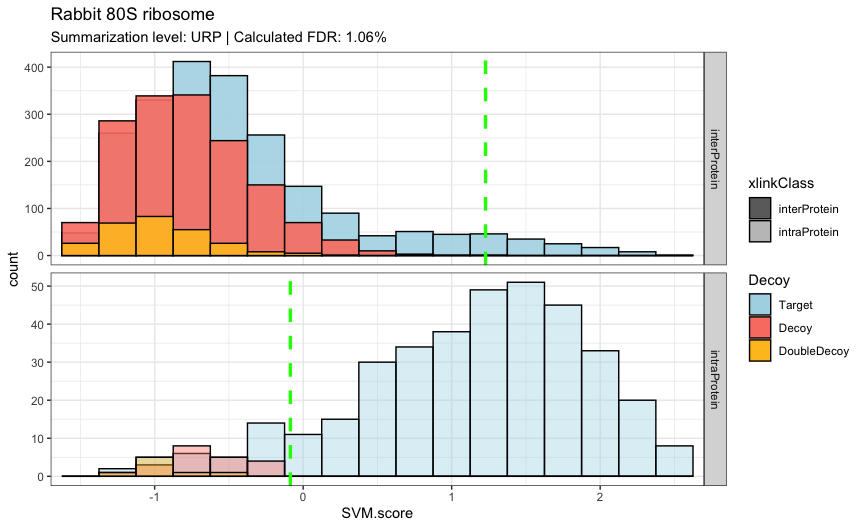
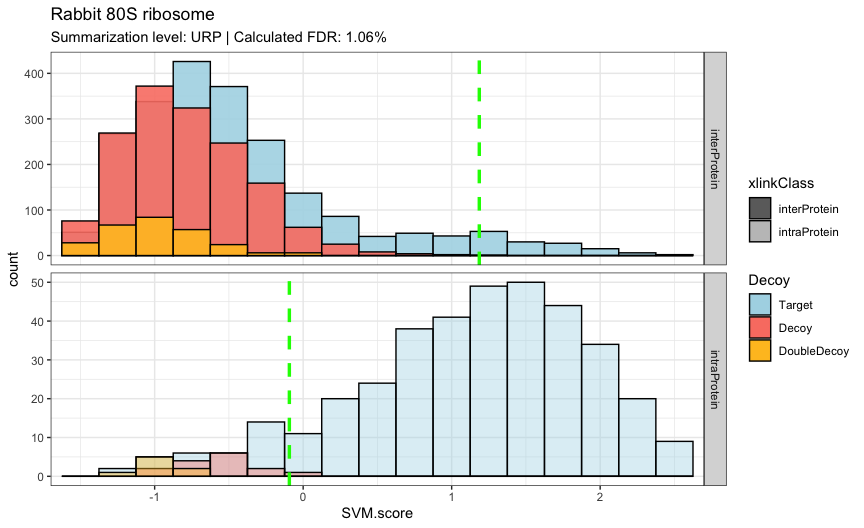
Validate Touchstone 0.1.0 release

diff --git a/README.md b/README.md
@@ -2,6 +2,7 @@ Touchstone
 ================
 
 <!-- README.md is generated from README.Rmd. Please edit README.Rmd. -->
+<!-- Release example validated with touchstone 0.1.0. -->
 
 ## Crosslinking mass-spectrometry rescoring and reporting
 
@@ -175,11 +176,11 @@ ribo_training
 #> Features: Score.Diff, percMatched, massError, z, CSMsupport, xlinkClass, Perc.Bond.Cleavage.1, Perc.Bond.Cleavage.2.
 #> Recommended scores average 3 cross-fitted estimates.
 #> Selected Score.Diff prefilter: 0.
-#> # A tibble: 1 x 17
+#> # A tibble: 1 × 17
 #>   index kernel  cost gamma interHits intraHits achievedFDR interCorrelation intraCorrelation
 #>   <int> <chr>  <dbl> <dbl>     <dbl>     <dbl>       <dbl>            <dbl>            <dbl>
-#> 1     1 linear 0.001    NA       124       374      0.0105            0.573            0.601
-#> # i 8 more variables: interTailCorrelation <dbl>, intraTailCorrelation <dbl>,
+#> 1     1 linear 0.001    NA       139       374      0.0107            0.564            0.574
+#> # ℹ 8 more variables: interTailCorrelation <dbl>, intraTailCorrelation <dbl>,
 #> #   worstClassCorrelation <dbl>, minimumCorrelationRequired <dbl>, selectionBasis <chr>,
 #> #   eligible <lgl>, recommended <lgl>, recommendedRadial <lgl>
 #> Full candidate audit: $candidates
@@ -224,10 +225,10 @@ ribo_urp <- prepareCrosslinkResults(
 
 ribo_urp$thresholds
 #> $intraThresh
-#> [1] -0.08606
+#> [1] -0.092936
 #>
 #> $interThresh
-#> [1] 1.228
+#> [1] 1.186
 #>
 #> attr(,"thresholdMethods")
 #>     intraProtein     interProtein
@@ -268,32 +269,32 @@ product-ion cleavage positions when those annotations are available:
 ribo_report <- classifyCrosslinkResults(ribo_urp)
 
 ribo_report$polishingAudit
-#> # A tibble: 2 x 7
+#> # A tibble: 2 × 7
 #>   rule      value                                   before after removed applied reason
 #>   <chr>     <chr>                                    <int> <int>   <int> <lgl>   <chr>
 #> 1 minIons   3                                        58987 32576   26411 TRUE    <NA>
-#> 2 threshold intraThresh=-0.19288, interThresh=1.204  32576  3371   29205 TRUE    <NA>
+#> 2 threshold intraThresh=-0.18368, interThresh=1.168  32576  3347   29229 TRUE    <NA>
 
 ribo_classification_summary <- countDecoys(ribo_report)
 
 ribo_classification_summary
-#> # A tibble: 2 x 5
+#> # A tibble: 2 × 5
 #> # Groups:   xlinkClass, Decoy [2]
 #>   xlinkClass   Decoy Target DoubleDecoy   FDR
 #>   <chr>        <int>  <int>       <dbl> <dbl>
-#> 1 interProtein     2    140          NA  1.43
-#> 2 intraProtein     3    370          NA  0.81
+#> 1 interProtein     1    140          NA  0.71
+#> 2 intraProtein     4    368          NA  1.09
 ribo_report$fdrByClass
-#> # A tibble: 2 x 2
-#>   xlinkClass      FDR
-#>   <chr>         <dbl>
-#> 1 interProtein 0.0121
-#> 2 intraProtein 0.0101
+#> # A tibble: 2 × 2
+#>   xlinkClass       FDR
+#>   <chr>          <dbl>
+#> 1 interProtein 0.0107
+#> 2 intraProtein 0.00995
 ```
 
 `countDecoys()` provides the target and scaling-adjusted decoy count
 summary. The exact class-specific FDR calculation is retained in
-`fdrByClass`. This analysis reports 140 interprotein and 370
+`fdrByClass`. This analysis reports 140 interprotein and 368
 intraprotein target URPs at the modeled 1% thresholds after polishing.
 
 The final target-only table is obtained without storing another
@@ -305,14 +306,14 @@ ribo_table <- formatXLTable(ribo_targets)
 ribo_table[1:5, c(
   "xlinkedResPair", "xlinkClass", "SVM.score", "numCSM"
 )]
-#> # A tibble: 5 x 4
+#> # A tibble: 5 × 4
 #>   xlinkedResPair            xlinkClass   SVM.score numCSM
 #>   <fct>                     <fct>            <dbl>  <int>
-#> 1 113.G1T6D1::75.G1T6D1     intraProtein      4.01    120
-#> 2 119.G1TM55::46.G1TM55     intraProtein      3.88     74
-#> 3 38.G1TUB8::67.G1TUB8      intraProtein      3.7      84
-#> 4 42.G1SP51::78.G1SP51      intraProtein      3.53     11
-#> 5 139.B7NZS8::68.A0A5F9D2E6 interProtein      3.49     58
+#> 1 113.G1T6D1::75.G1T6D1     intraProtein      3.76    120
+#> 2 119.G1TM55::46.G1TM55     intraProtein      3.65     74
+#> 3 38.G1TUB8::67.G1TUB8      intraProtein      3.44     84
+#> 4 139.B7NZS8::68.A0A5F9D2E6 interProtein      3.36     58
+#> 5 42.G1SP51::78.G1SP51      intraProtein      3.33     11
 ```
 
 `formatXLTable()` removes most internal columns, arranges rows by the

diff --git a/ROADMAP.md b/ROADMAP.md
@@ -139,7 +139,7 @@ separate at every summarization level.
 - [x] Rewrite the GitHub README around the working ribosome example, with clear
   installation instructions, expected outputs, and links to more detailed
   documentation where appropriate.
-- [ ] Run the README example from a clean R session and fresh package install,
+- [x] Run the README example from a clean R session and fresh package install,
   run the complete package checks, then tag the stable public MS2 release.
 
 ## 3. Improve PPI scoring and reporting after the MS2 release
